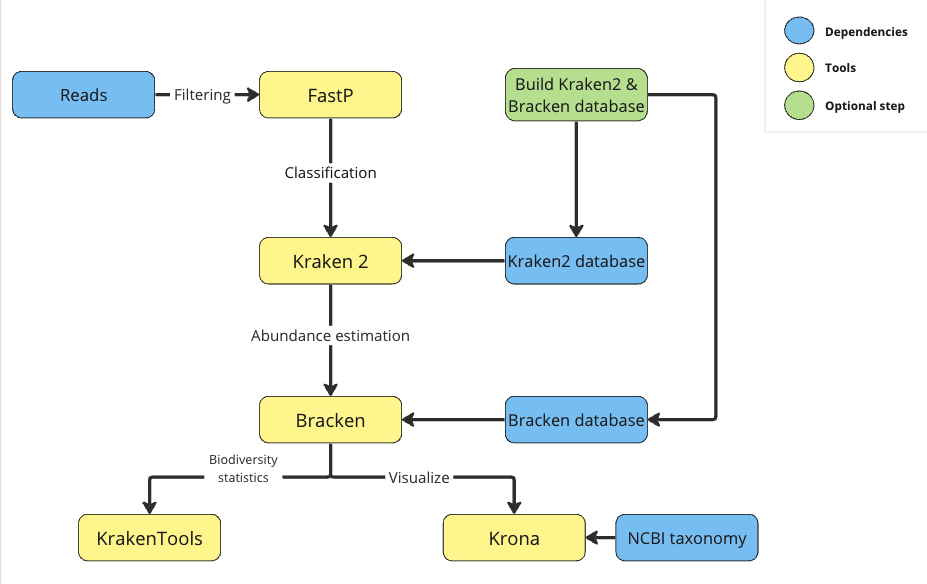
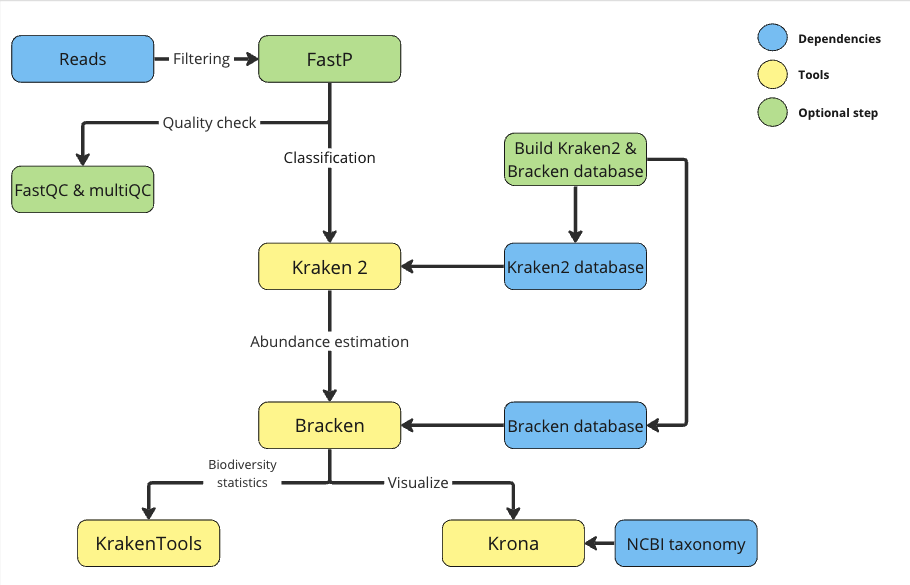
fastqc, multiqc and optional steps added. Its time to try the complete pipeline

Changed region(s): [[0.0, 0.0616, 0.8308, 0.9863], [0.8308, 0.0308, 0.9846, 0.2158]]

diff --git a/README.md b/README.md
@@ -20,9 +20,15 @@ It's encouraged to use a conda/mamba enviroment.
 For Linux:
 
 ```
+mamba create -n MAUS -c bioconda fastp kraken2 bracken krona fastqc 
+pip install multiqc
 git clone https://github.com/juanjo255/MAUS.git
-mamba create -n MAUS -c bioconda fastp kraken2 bracken krona 
+cd MAUS
+export PATH=$PATH:$(pwd)/kraken2_build
 ```
+NOTES:
+* The folder ```Kraken2_build```is required to be in the path 
+* MultiQC is installed with pip because it works better than conda both in Linux and MacOS
 
 ## Usage example
 
